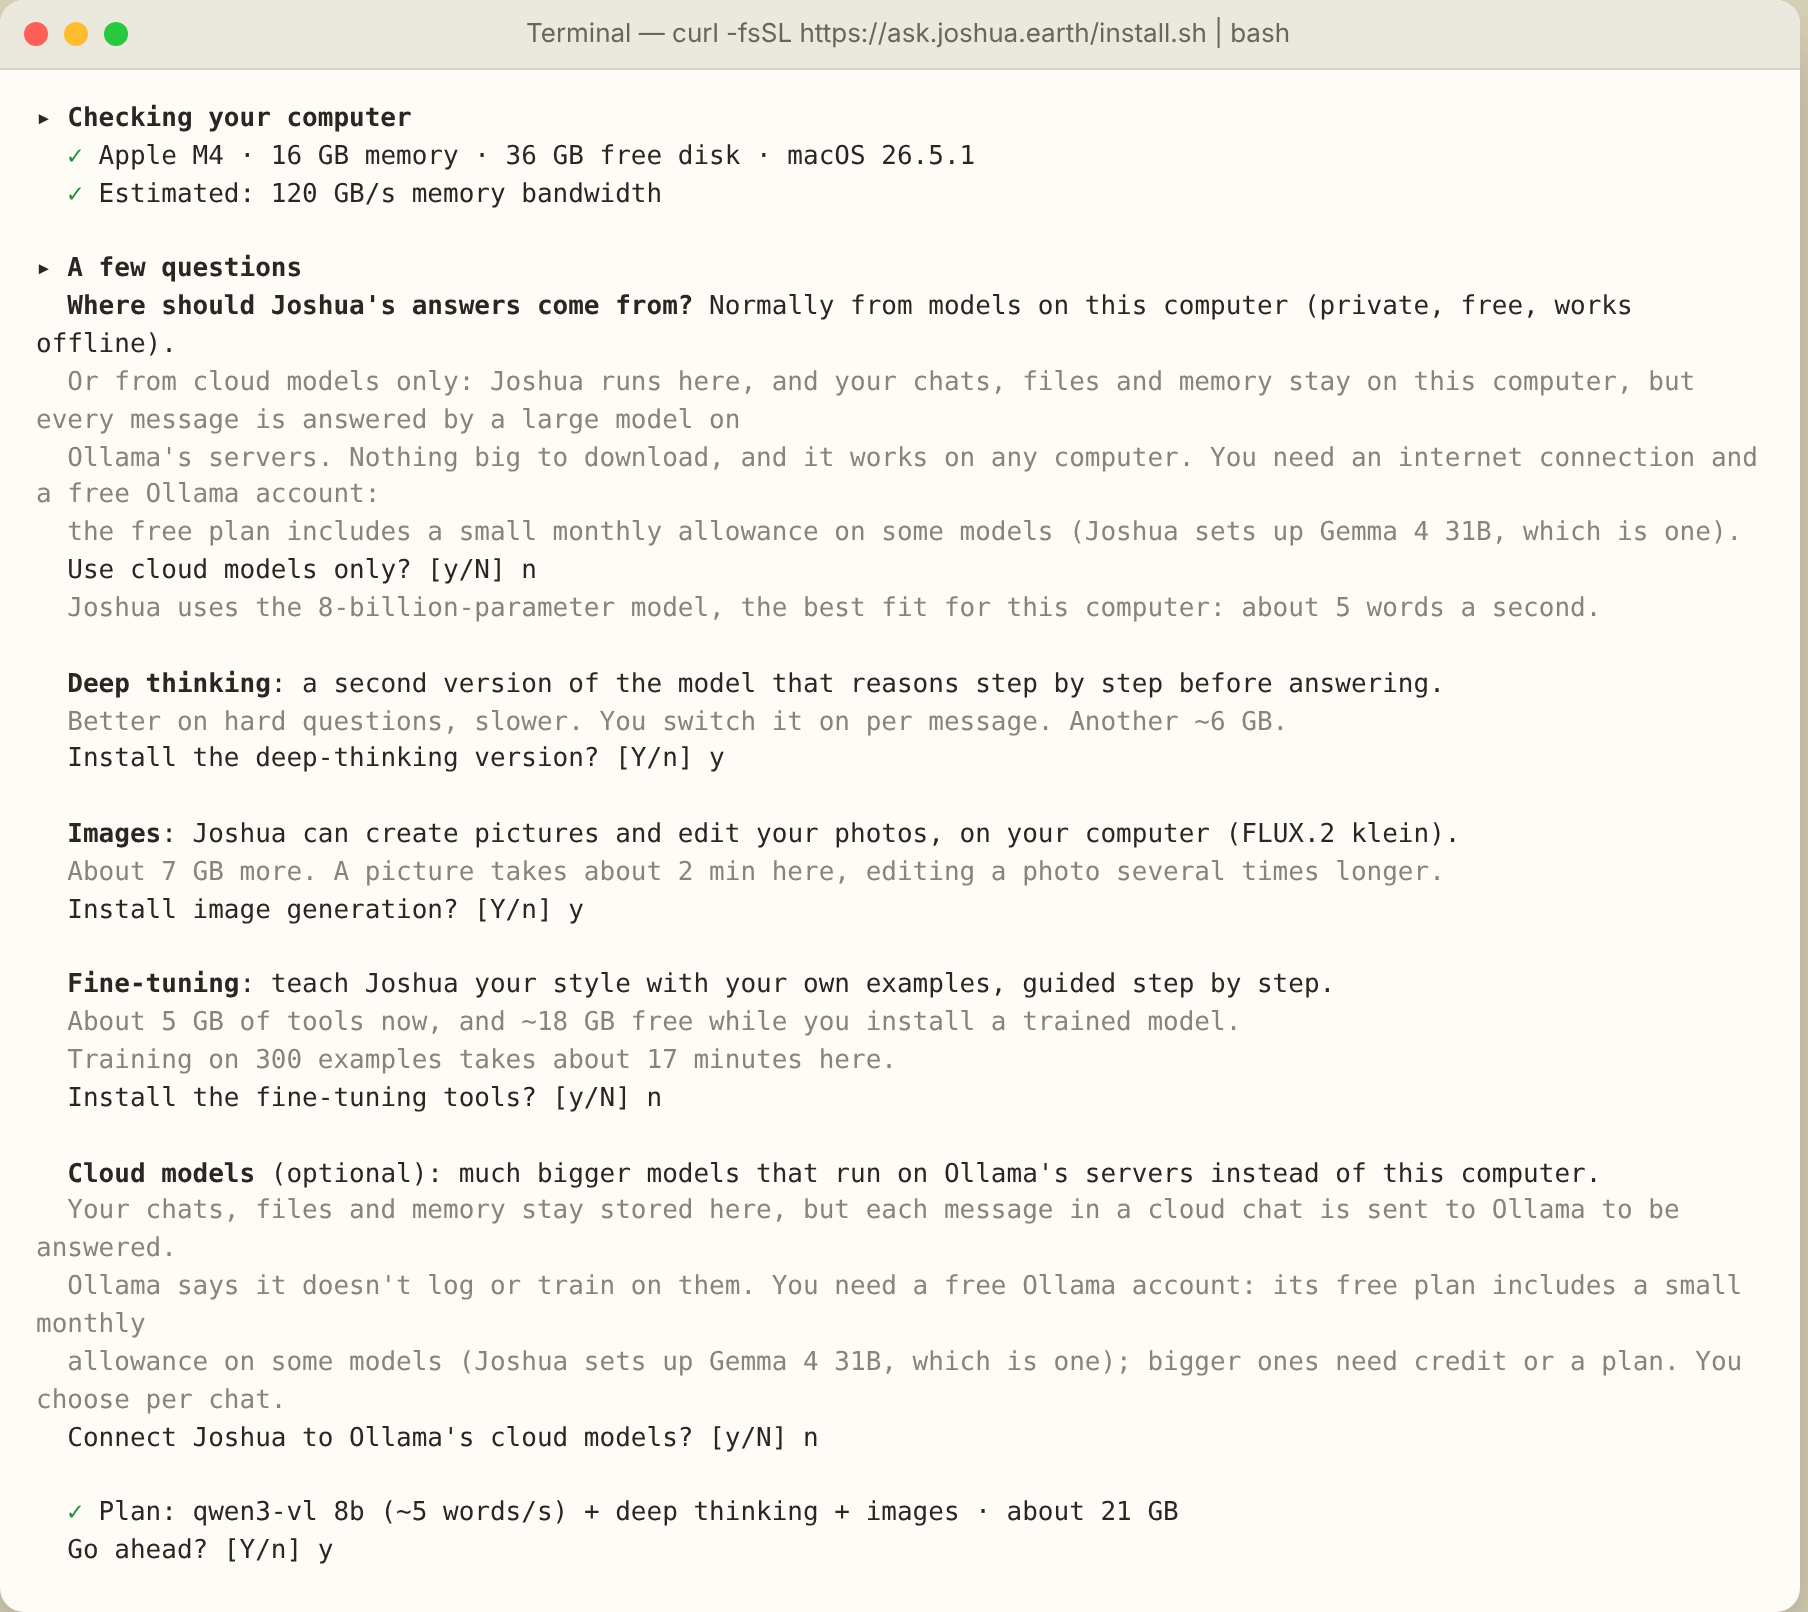
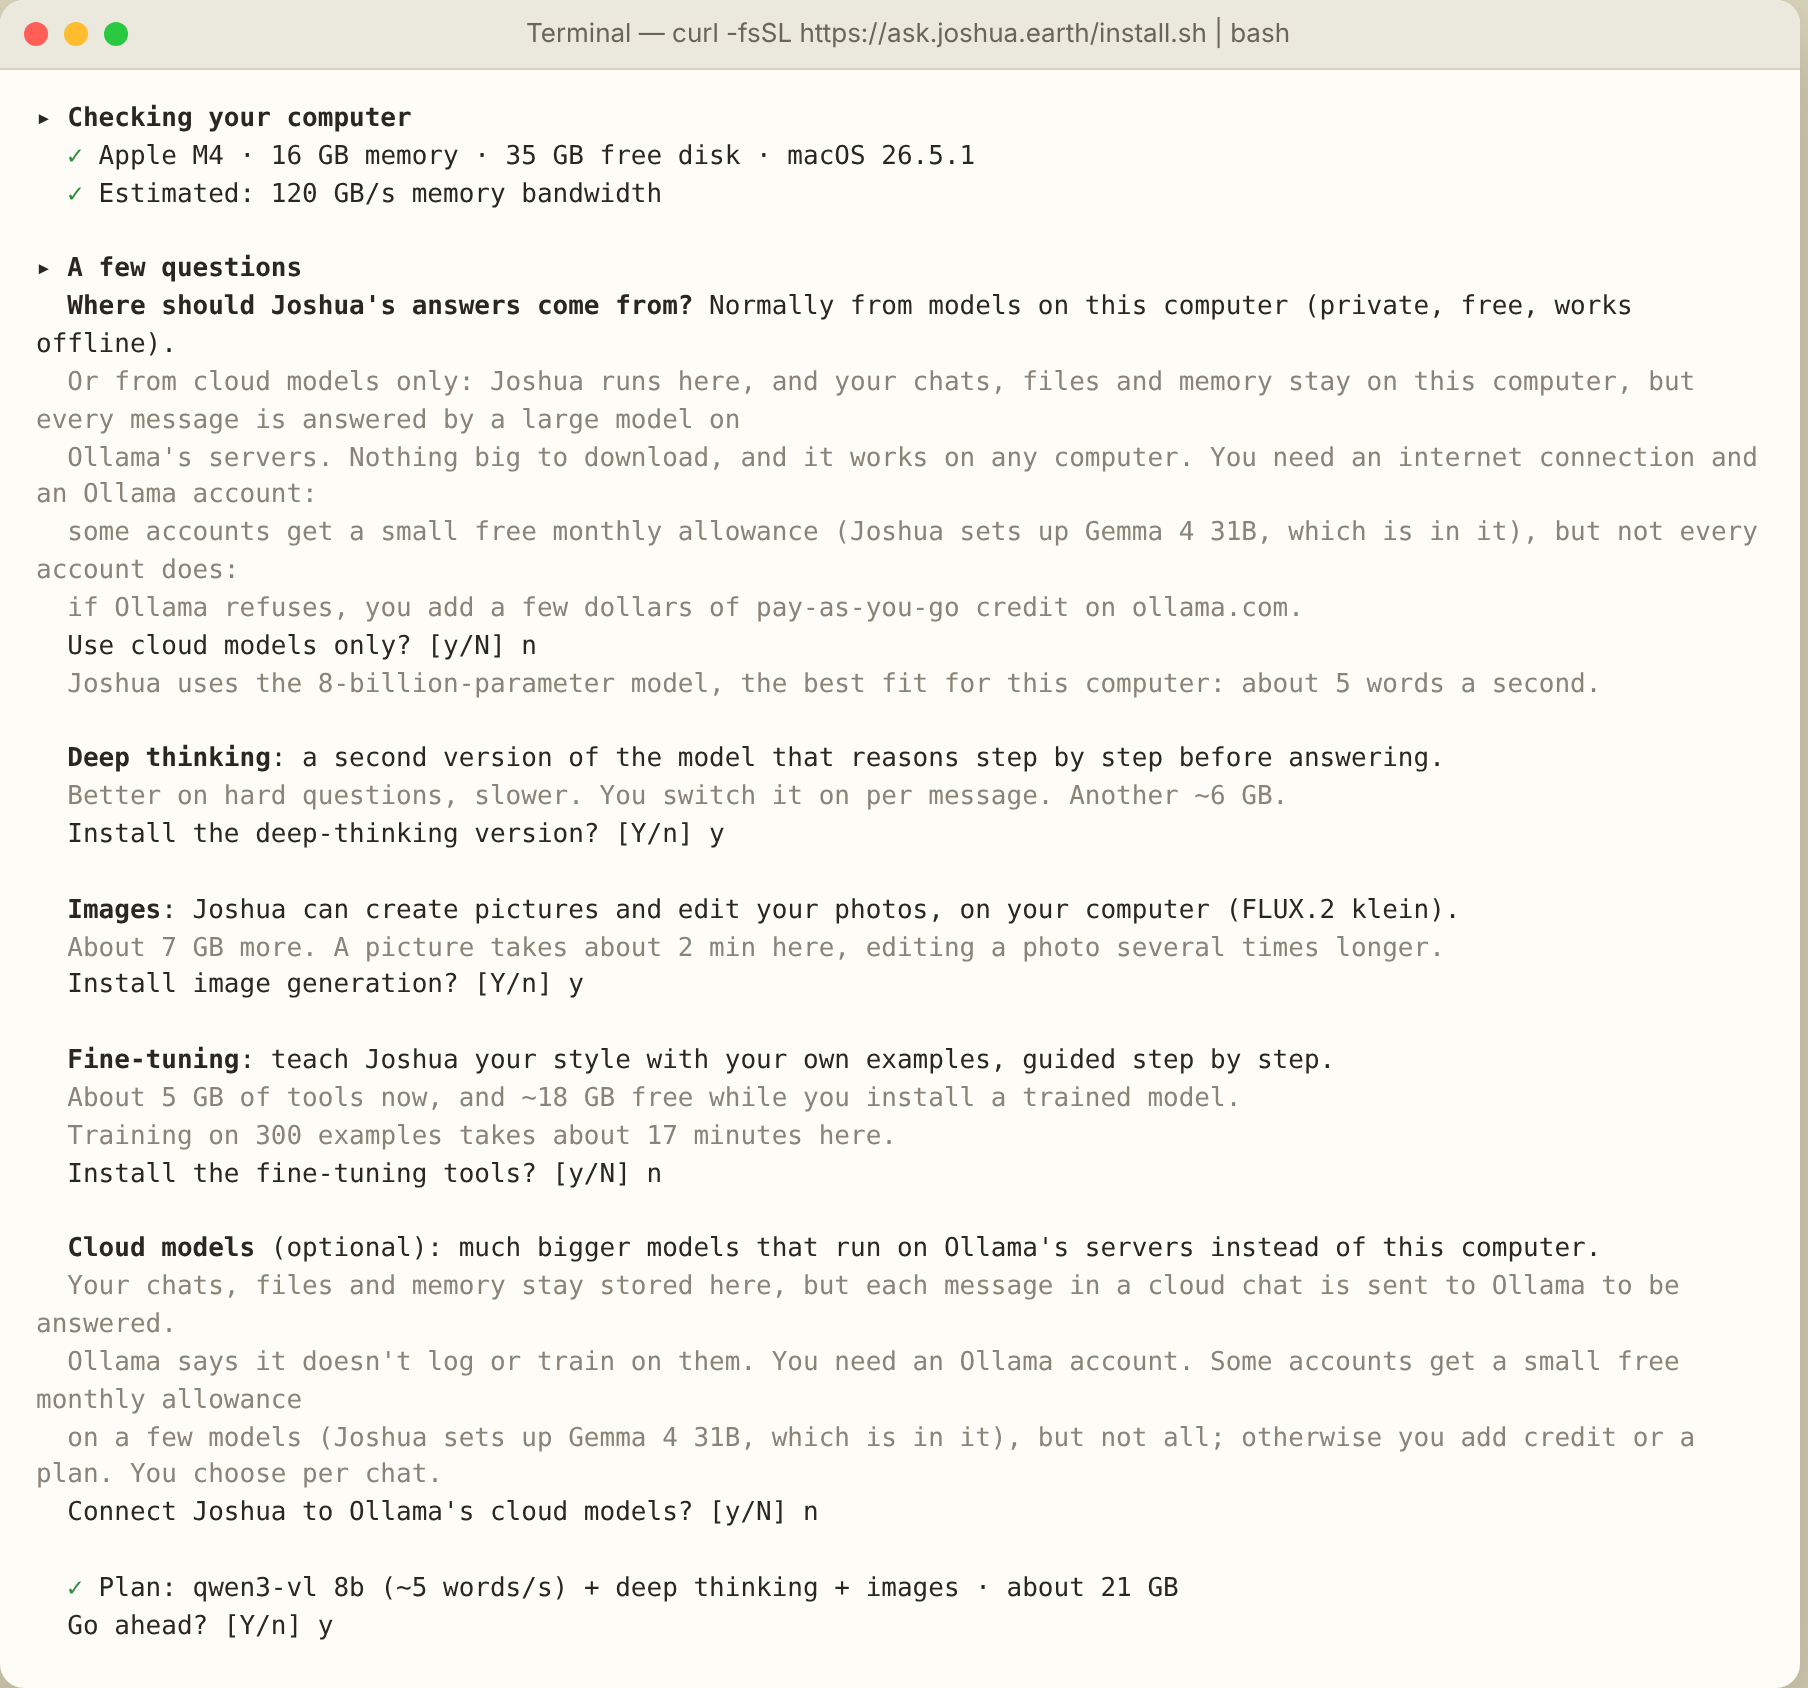
Don't promise Ollama's free allowance; clearer message when Ollama asks for payment
A new Ollama account can have no free cloud usage at all (pay-as-you-go at $0), so
cloud requests are refused with 402. The installer, site and app now say the allowance
isn't guaranteed, and the error explains what to do (credit or a local model).

Claude-Session: https://claude.ai/code/session_01QgNUGikZc3YxfbDmzS1PiV

diff --git a/site/index.html b/site/index.html
@@ -240,7 +240,7 @@ footer { border-top: 1px dashed var(--line); padding-top: 22px; display: flex; j
       <h3>Using a cloud model</h3>
       <ol class="howto">
         <li><span><strong>Connect.</strong> Say yes to cloud models when you install, or later open <em>☁ Cloud models</em> in Joshua and press <em>Connect</em>. A page on ollama.com opens: create a free account or sign in, and approve your computer.</span></li>
-        <li><span><strong>Start free, pay if you need more.</strong> Ollama's free plan includes a small monthly allowance on some models: Gemma 4 31B, which also sees images, is one, and Joshua sets it up for you. Bigger models need pay-as-you-go credit (no monthly fee) or a plan such as Pro ($20 a month with $60 of use included).</span></li>
+        <li><span><strong>Start free, pay if you need more.</strong> Some Ollama accounts get a small free monthly allowance on a few models, including Gemma 4 31B, which also sees images and which Joshua sets up for you. Not every account gets it: a new account may show only pay-as-you-go credit at $0, and then Ollama refuses cloud requests until you add some. Bigger models need pay-as-you-go credit (no monthly fee) or a plan such as Pro ($20 a month with $60 of use included).</span></li>
         <li><span><strong>Add a model.</strong> In <em>☁ Cloud models</em>, pick one from the list (👁 means it can also see images) and press <em>Add to the model menu</em>. Nothing is downloaded.</span></li>
         <li><span><strong>Choose it per chat.</strong> Pick the ☁ model under the prompt. Joshua starts every new chat on your local model, so the cloud is always a choice you make.</span></li>
       </ol>
@@ -269,7 +269,7 @@ footer { border-top: 1px dashed var(--line); padding-top: 22px; display: flex; j
       <h2>One line, a few questions</h2>
       <p>The installer looks at your computer first: chip, graphics card, memory, free disk, and estimates how fast each model would run on it. It asks whether you want deep thinking, images and fine-tuning, or cloud models only, shows the plan and the space it needs, and waits for your yes.</p>
       <p>Then it installs <a href="https://ollama.com" rel="noopener">Ollama</a>, the engine that runs the models, a private copy of Python, Joshua and the models you chose, and offers to start Joshua when you log in, so it opens at once and scheduled tasks can run. On a Mac, Joshua is an app of its own in the Applications folder, with its own window and Dock icon; on Linux it opens in its own window from the applications menu. Everything else stays in one folder, <code>~/AskJoshua</code>, with an <code>uninstall.sh</code> that removes it.</p>
-      <p class="limits"><strong>Before you start.</strong> Installing takes about 20 minutes, most of it downloading, depending on your connection and the options you choose. On some Macs, macOS also offers to install Apple's “Command Line Developer Tools” along the way: let it finish. Its first time estimate (sometimes many hours) is wrong; it usually takes 10–20 minutes. Cloud models need a free Ollama account: when the installer opens the sign-in page, <b>Continue with Google</b> with your Gmail address is enough. Local models need no account.</p>
+      <p class="limits"><strong>Before you start.</strong> Installing takes about 20 minutes, most of it downloading, depending on your connection and the options you choose. On some Macs, macOS also offers to install Apple's “Command Line Developer Tools” along the way: let it finish. Its first time estimate (sometimes many hours) is wrong; it usually takes 10–20 minutes. Cloud models need an Ollama account: when the installer opens the sign-in page, <b>Continue with Google</b> with your Gmail address is enough. Not every account gets Ollama's free allowance; if it refuses, add a few dollars of credit on ollama.com, or use a local model. Local models need no account.</p>
       <p class="fine">Prefer to read before you run? <a href="https://ask.joshua.earth/install.sh">Open install.sh</a>: it is plain, commented shell. All of Joshua's code is <a href="https://github.com/fabiodeponte/askjoshua">on GitHub</a>, under the AGPL licence.</p>
     </div>
     <div class="stack">
@@ -281,7 +281,7 @@ footer { border-top: 1px dashed var(--line); padding-top: 22px; display: flex; j
             <tr><td>8 GB</td><td>qwen3-vl 4B · about 3 GB</td><td>Deep thinking. Images are not offered: they need 16 GB. On a slow chip the 4B is suggested even with 16 GB.</td></tr>
             <tr><td>16–24 GB</td><td>qwen3-vl 8B · about 6 GB</td><td>Deep thinking, images (FLUX.2 klein), fine-tuning.</td></tr>
             <tr><td>32 GB+</td><td>qwen3-vl 30B · about 20 GB</td><td>Everything, with a larger and smarter model if you want it.</td></tr>
-            <tr><td>Any computer</td><td>Cloud models only · about 1 GB</td><td>For computers too small or too old for local models (Intel Macs, under 8 GB of memory, little free disk), or if you prefer. Answers come from Ollama's servers; chats, files and memory stay on your computer. Needs an internet connection and a free Ollama account.</td></tr>
+            <tr><td>Any computer</td><td>Cloud models only · about 1 GB</td><td>For computers too small or too old for local models (Intel Macs, under 8 GB of memory, little free disk), or if you prefer. Answers come from Ollama's servers; chats, files and memory stay on your computer. Needs an internet connection and an Ollama account; the free allowance isn't guaranteed, so you may need a few dollars of credit.</td></tr>
             <tr><td>Linux</td><td>chosen by the graphics card: 4B under 7 GB, 8B from 7 GB, 30B from 22 GB</td><td>Images from 12 GB, fine-tuning from 8 GB, on NVIDIA cards. Without a card, the 4B runs on the processor, slowly.</td></tr>
           </tbody>
         </table>
@@ -332,7 +332,7 @@ footer { border-top: 1px dashed var(--line); padding-top: 22px; display: flex; j
 
   <footer>
     <span>Ask Joshua · from the people behind <a href="https://yattaphone.org">Yattaphone</a>, the phone you build yourself.</span>
-    <span>Version 2026.11.08.9 · Own your hardware. Own your data. Own your intelligence.</span>
+    <span>Version 2026.11.08.10 · Own your hardware. Own your data. Own your intelligence.</span>
   </footer>
 </div>
 

diff --git a/site/api.html b/site/api.html
@@ -360,7 +360,7 @@ print(reply.choices[0].message.content)</pre></div>
 
   <footer>
     <span>Ask Joshua · <a href="./">back to the home page</a></span>
-    <span>Joshua 2026.11.08.9 · Own your hardware. Own your data. Own your intelligence.</span>
+    <span>Joshua 2026.11.08.10 · Own your hardware. Own your data. Own your intelligence.</span>
   </footer>
 </div>
 

diff --git a/site/manifesto.html b/site/manifesto.html
@@ -241,6 +241,6 @@ h1.page em { font-style: normal; color: var(--rust) }
 
   <footer>
     <span>Ask Joshua · <a href="./">back to the home page</a></span>
-    <span>Joshua 2026.11.08.9 · Own your hardware. Own your data. Own your intelligence.</span>
+    <span>Joshua 2026.11.08.10 · Own your hardware. Own your data. Own your intelligence.</span>
   </footer>
 </div>

diff --git a/joshua/web.py b/joshua/web.py
@@ -81,7 +81,7 @@ CLOUD_HELP = """Bigger models running on Ollama's servers, for when this compute
 **What goes to the cloud:** for every message, the conversation so far, including the text of files and web pages Joshua reads, and your photos if you send them.
 **What stays here:** your chats, files, memory notes and trained models are stored only on this computer. Memory notes are sent only if you allow it in 🧠 Memory.
 Ollama says it never logs or trains on cloud prompts. That is a promise you are trusting, not something this computer can check.
-**Cost:** Ollama's free plan includes a small monthly allowance on some models (marked "free plan"); bigger models need credit or a paid plan on ollama.com."""
+**Cost:** some Ollama accounts get a small free monthly allowance on a few models (marked "free plan"), but not every account does: if Ollama refuses, add pay-as-you-go credit or a plan on ollama.com, or use a local model."""
 
 
 def ollama_bin():
@@ -698,8 +698,13 @@ def worker(job, cid, conv, model, thinking, goal, rounds, net, timeout, swarm=0,
             text = "This cloud model needs your computer to be connected to an Ollama account. Open **☁ Cloud models** in the right column and press **Connect**."
         elif is_cloud(model) and any(w in low for w in ("free usage", "free plan", "402", "payment", "billing", "credit", "subscription", "insufficient", "balance")):
             free = re.search(r"[Tt]ry ([\w.:-]+)", text)  # Ollama suggests a model that is in the free plan
-            text = ("This cloud model isn't included in your Ollama plan." + (f" **{free[1]}** is in the free plan: add it from **☁ Cloud models** and pick it in the menu." if free else "")
-                    + " For bigger models, add credit (pay as you go) or a plan on [ollama.com](https://ollama.com/settings). Local models keep working for free.\n\nOllama's message: " + text)
+            if free:  # Ollama names a model the account can use for free
+                text = (f"Ollama refused this model for your account. **{free[1]}** is in the free plan: add it from **☁ Cloud models** and pick it in the menu."
+                        " Or add credit (pay as you go) or a plan on [ollama.com](https://ollama.com/settings). Local models keep working for free.\n\nOllama's message: " + text)
+            else:  # no free usage on this account (not every account gets it), or it's used up
+                text = ("Ollama refused this request: your Ollama account has no cloud usage available. Not every account gets the free monthly allowance, and it may be used up."
+                        " Check your account on [ollama.com/settings](https://ollama.com/settings): you can add a few dollars of credit (pay as you go)."
+                        " Or switch to a local model in the menu below: those are free and run on this computer.\n\nOllama's message: " + text)
         elif is_cloud(model) and any(w in low for w in ("429", "quota", "usage limit", "rate limit", "too many requests")):
             text = "Ollama's cloud refused this request: you've reached your plan's usage limit or too many requests are running. Wait a moment, check your usage on [ollama.com](https://ollama.com/settings), or switch to a local model."
         shown.append({"role": "assistant", "content": text, "metadata": {"title": "⚠ Error", "status": "done"}})
